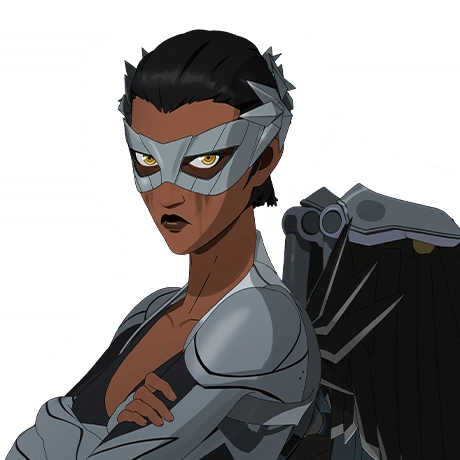
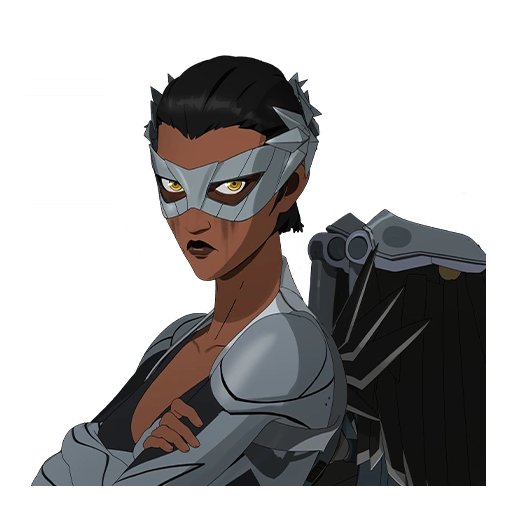
Replace the portrait masters with lossless 512 squares (feature 021)
Fandom's busts padded onto a 512 canvas, never cropped or resampled;
Blonde Blazer cut from the Training render and downscaled once. A unit
test reads the WebP headers to hold every master at lossless 512×512.

Claude-Session: https://claude.ai/code/session_012n5uDuLimSHb2hZuBjsx

Changed region(s): [[0.0, 0.0609, 1.0, 1.0], [0.8522, 0.6391, 0.8826, 0.6696], [0.487, 0.7, 0.5174, 0.7304]]

diff --git a/test/unit/portrait-masters.test.ts b/test/unit/portrait-masters.test.ts
@@ -1,0 +1,52 @@
+import { readFileSync } from 'node:fs';
+import { join } from 'node:path';
+
+import { describe, expect, it } from 'vitest';
+
+import { HEROES } from '@/types/hero';
+import { heroPortraitSrc } from '@/utils/heroPortraitSrc';
+
+import type { SonarForm } from '@/utils/heroPortraitSrc';
+
+// * Feature 021: one lossless 512×512 master per portrait. The file is what Vercel resizes from, so a lossy or off-size master would be encoded twice or upscaled.
+const MASTER_SIZE = 512;
+
+const PUBLIC_DIR = join(import.meta.dirname, '../../public');
+
+const FORMS: SonarForm[] = ['hybrid', 'monster'];
+
+const portraitPaths = HEROES.flatMap((hero) =>
+  hero.id === 'sonar'
+    ? FORMS.map((form) => heroPortraitSrc(hero.id, form))
+    : [heroPortraitSrc(hero.id, 'hybrid')]
+);
+
+// * WebP container: RIFF header, then one chunk; a lossless file's first chunk is VP8L, whose 5th byte onward packs width-1 and height-1 as 14-bit fields.
+function readWebpMaster(path: string) {
+  const bytes = readFileSync(join(PUBLIC_DIR, path));
+  const riff = bytes.toString('ascii', 0, 4);
+  const webp = bytes.toString('ascii', 8, 12);
+  const chunk = bytes.toString('ascii', 12, 16);
+  const bits = bytes.readUInt32LE(21);
+  return {
+    isWebp: riff === 'RIFF' && webp === 'WEBP',
+    chunk,
+    width: (bits & 0x3fff) + 1,
+    height: ((bits >> 14) & 0x3fff) + 1
+  };
+}
+
+describe('portrait masters', () => {
+  it("covers every hero, and both of Sonar's forms", () => {
+    expect(portraitPaths).toHaveLength(HEROES.length + 1);
+    expect(new Set(portraitPaths).size).toBe(portraitPaths.length);
+  });
+
+  it.each(portraitPaths)('%s is a lossless 512×512 WebP', (path) => {
+    const master = readWebpMaster(path);
+    expect(master.isWebp).toBe(true);
+    expect(master.chunk).toBe('VP8L');
+    expect(master.width).toBe(MASTER_SIZE);
+    expect(master.height).toBe(MASTER_SIZE);
+  });
+});

diff --git a/catalyst/features/021_hero-portraits.md b/catalyst/features/021_hero-portraits.md
@@ -16,16 +16,16 @@ The terms are the glossary's (`context/glossary.md`, Roster imagery): a **bust**
 
 ## Inputs
 
-| Input                          | Type                     | Source                                   | Constraints                                                                                                                                  |
-| ------------------------------ | ------------------------ | ---------------------------------------- | -------------------------------------------------------------------------------------------------------------------------------------------- |
-| master                         | lossless WebP, square    | `public/images/portraits/<hero-id>.webp` | 512×512; never upscaled, never cropped, never pre-encoded lossy                                                                              |
-| bust                           | PNG                      | Fandom `dispatch` wiki, `<Name>.png`     | the fuller framing (horns, ears, collars visible), native 450–512px; the only source of that framing — wiki.gg's 960×1040 busts crop tighter |
-| Blonde Blazer                  | PNG                      | Fandom `Blonde_Blazer.png`, 2439×2054    | the Training render, cut square around the face and downscaled once to 512                                                                   |
-| canvas rule                    | pad                      | this document                            | a bust smaller than 512 on a side is centred on a transparent 512 canvas; no pixel of the bust is resampled                                  |
-| preset                         | `image.presets.<name>`   | `nuxt.config.ts`                         | one per usage site: `width` in CSS px, `densities: 'x1 x2'`, `fit: 'cover'`; every portrait `NuxtImg` names one                              |
-| `image.screens`                | `Record<string, number>` | `nuxt.config.ts`                         | exactly the preset widths × densities — the list Vercel will resize to                                                                       |
-| `image.quality`                | `80`                     | `nuxt.config.ts`                         | one value for every portrait                                                                                                                 |
-| `image.vercel.minimumCacheTTL` | `31536000`               | `nuxt.config.ts`                         | one year at the edge                                                                                                                         |
+| Input                          | Type                     | Source                                   | Constraints                                                                                                                                                                                                                                                                                                      |
+| ------------------------------ | ------------------------ | ---------------------------------------- | ---------------------------------------------------------------------------------------------------------------------------------------------------------------------------------------------------------------------------------------------------------------------------------------------------------------- |
+| master                         | lossless WebP, square    | `public/images/portraits/<hero-id>.webp` | 512×512; never upscaled, never cropped, never pre-encoded lossy                                                                                                                                                                                                                                                  |
+| bust                           | PNG                      | Fandom `dispatch` wiki, `<Name>.png`     | the fuller framing (horns, ears, collars visible), native 450–512px; the only source of that framing — wiki.gg's 960×1040 busts crop tighter; Phenomaman and Waterboy match no Fandom upload — Waterboy is wiki.gg's 512 bust, Phenomaman's only source is the file the repo already carried (origin unrecorded) |
+| Blonde Blazer                  | PNG                      | Fandom `Blonde_Blazer.png`, 2439×2054    | the Training render, cut square around the face and downscaled once to 512                                                                                                                                                                                                                                       |
+| canvas rule                    | pad                      | this document                            | a bust smaller than 512 on a side is centred on a transparent 512 canvas; no pixel of the bust is resampled                                                                                                                                                                                                      |
+| preset                         | `image.presets.<name>`   | `nuxt.config.ts`                         | one per usage site: `width` in CSS px, `densities: 'x1 x2'`, `fit: 'cover'`; every portrait `NuxtImg` names one                                                                                                                                                                                                  |
+| `image.screens`                | `Record<string, number>` | `nuxt.config.ts`                         | exactly the preset widths × densities — the list Vercel will resize to                                                                                                                                                                                                                                           |
+| `image.quality`                | `80`                     | `nuxt.config.ts`                         | one value for every portrait                                                                                                                                                                                                                                                                                     |
+| `image.vercel.minimumCacheTTL` | `31536000`               | `nuxt.config.ts`                         | one year at the edge                                                                                                                                                                                                                                                                                             |
 
 ## Outputs And Side Effects
 
